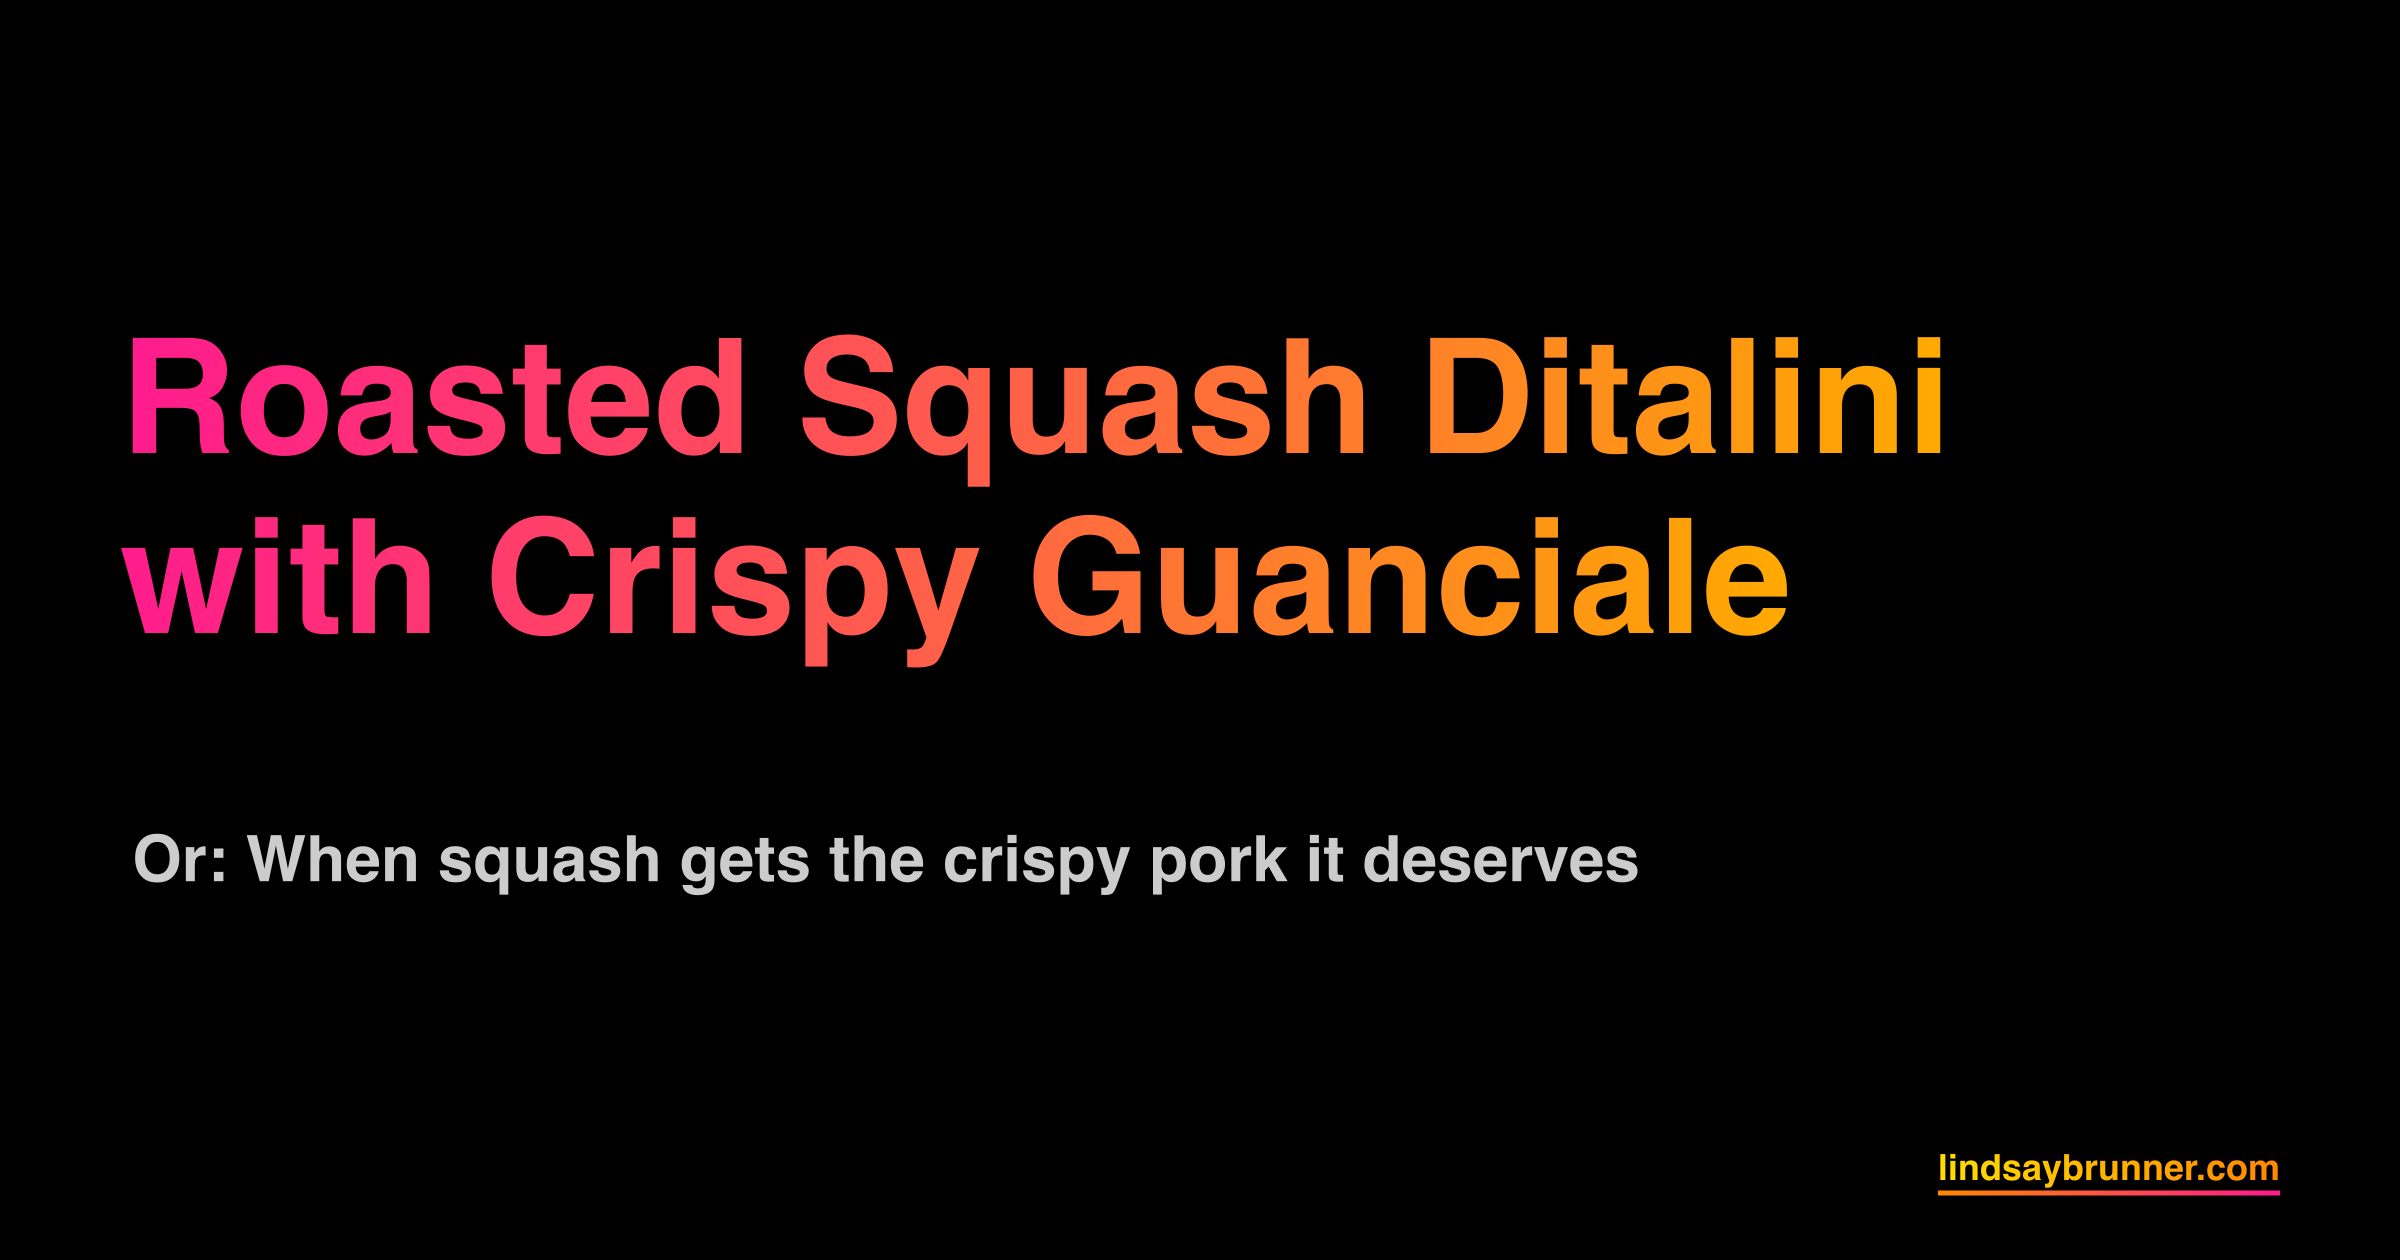
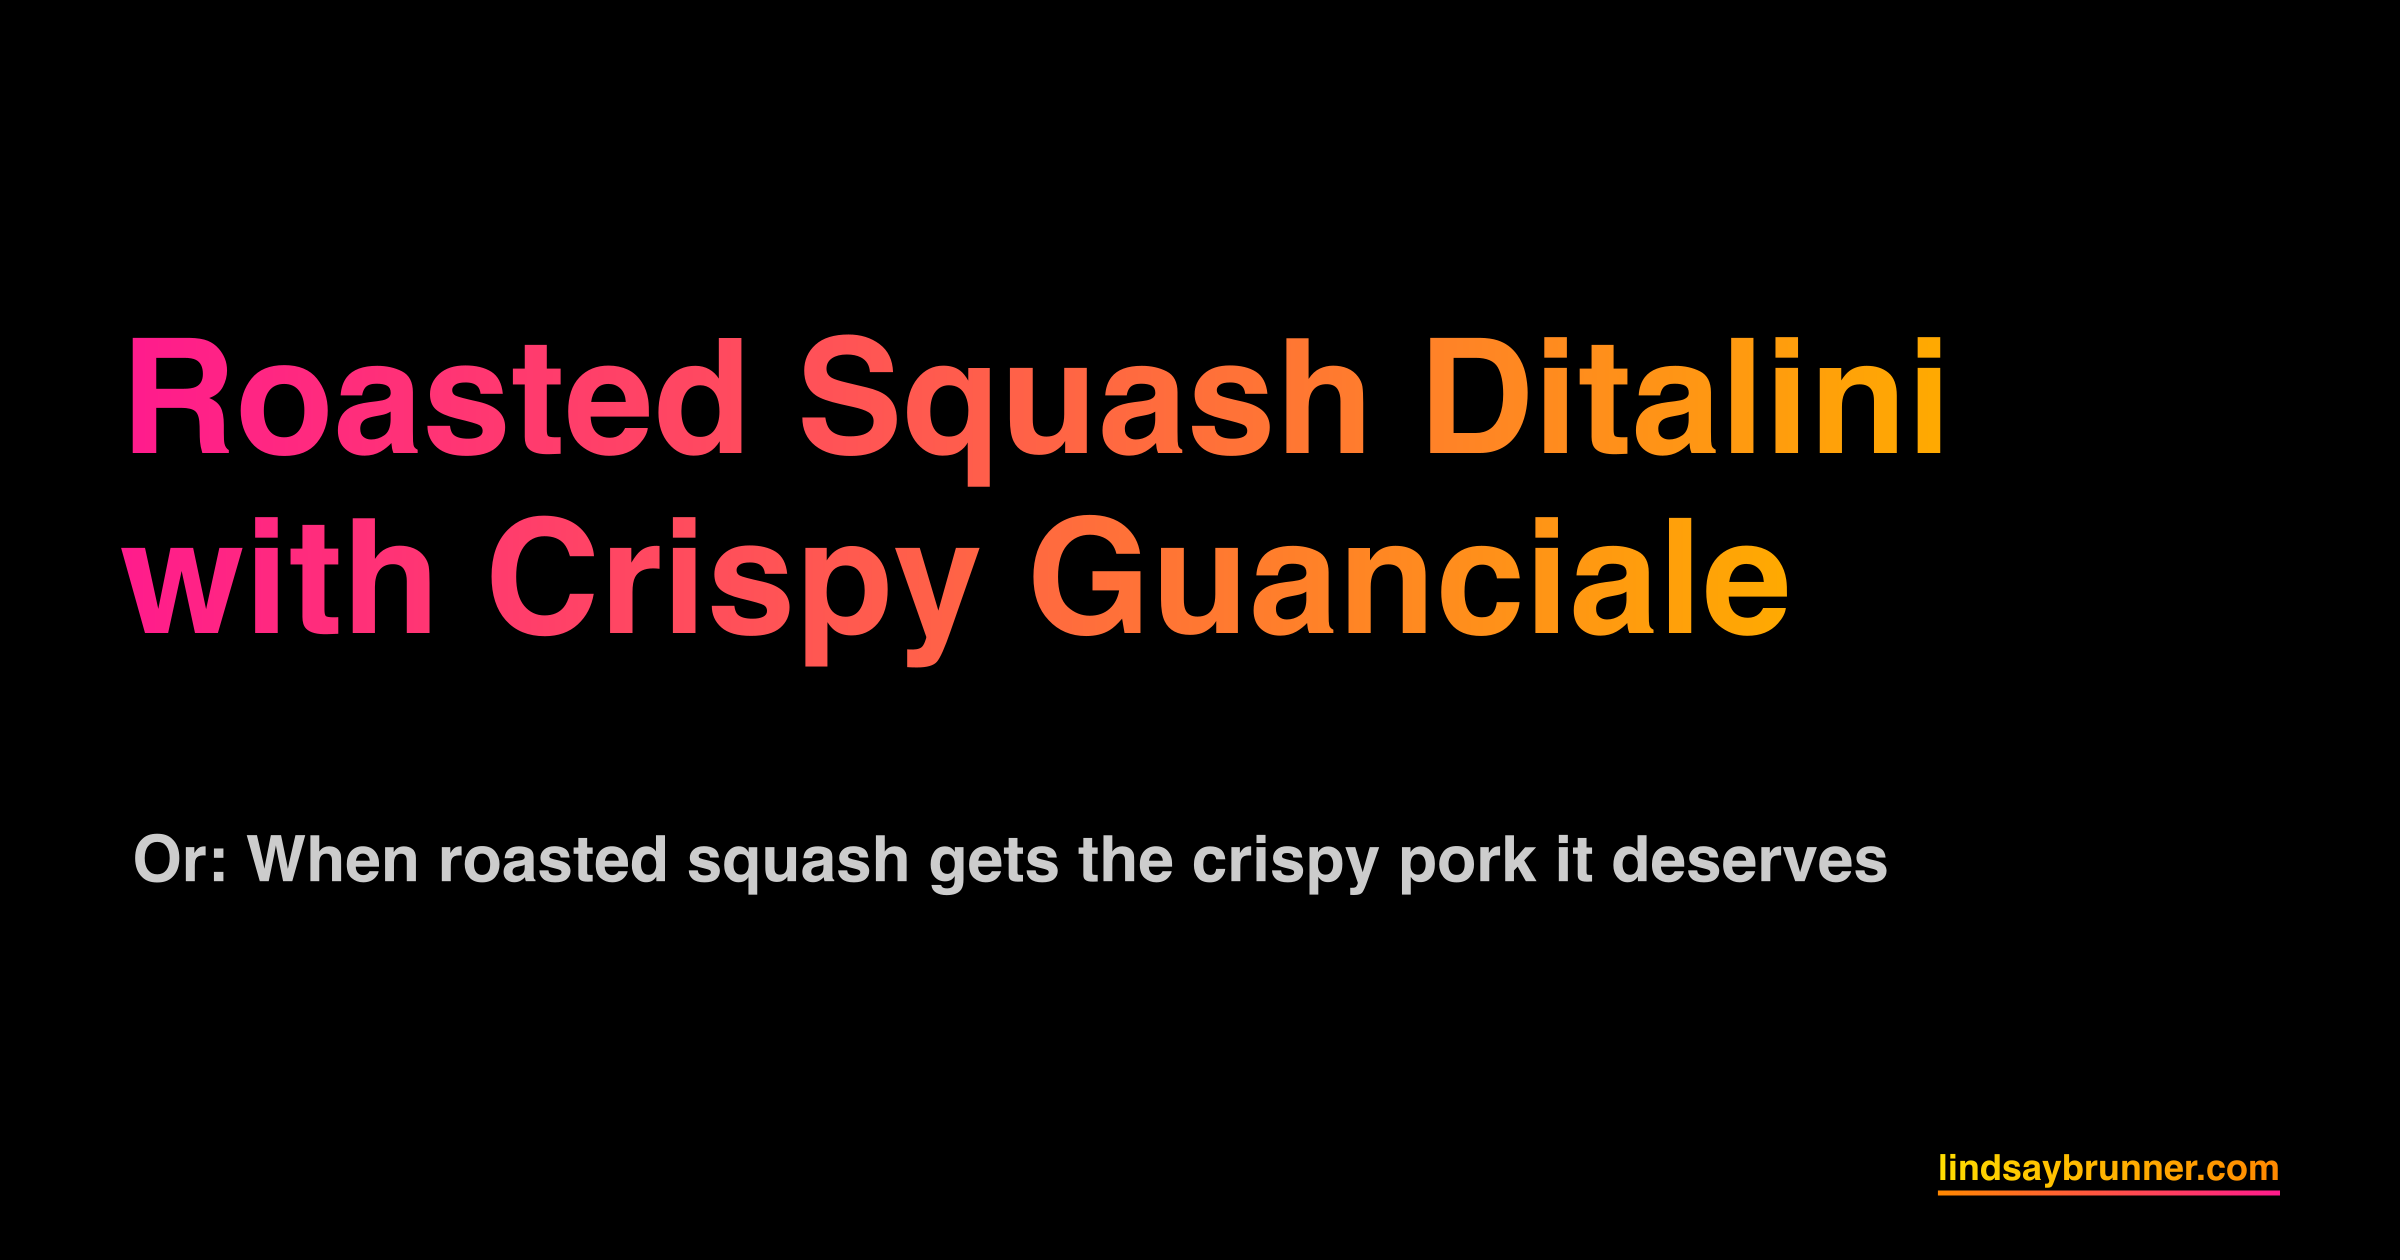
Add 'roasted' to squash recipe subtitle

Changed region(s): [[0.1875, 0.65, 0.7812, 0.7119]]

diff --git a/content/recipes/recipe-roasted-squash-ditalini-crispy-guanciale.md b/content/recipes/recipe-roasted-squash-ditalini-crispy-guanciale.md
@@ -2,7 +2,7 @@
 title: "Roasted Squash Ditalini with Crispy Guanciale"
 date: 2025-11-26
 slug: "recipe-roasted-squash-ditalini-crispy-guanciale"
-subtitle: "Or: When squash gets the crispy pork it deserves"
+subtitle: "Or: When roasted squash gets the crispy pork it deserves"
 description: "Simple, comforting pasta with fall squash, fresh herbs, and rich pork-cheek crunch. Sheet pan roasted squash, crispy guanciale, and a creamy ricotta sauce."
 draft: false
 social_image: "/images/social/recipe-roasted-squash-ditalini-crispy-guanciale-og.png"
